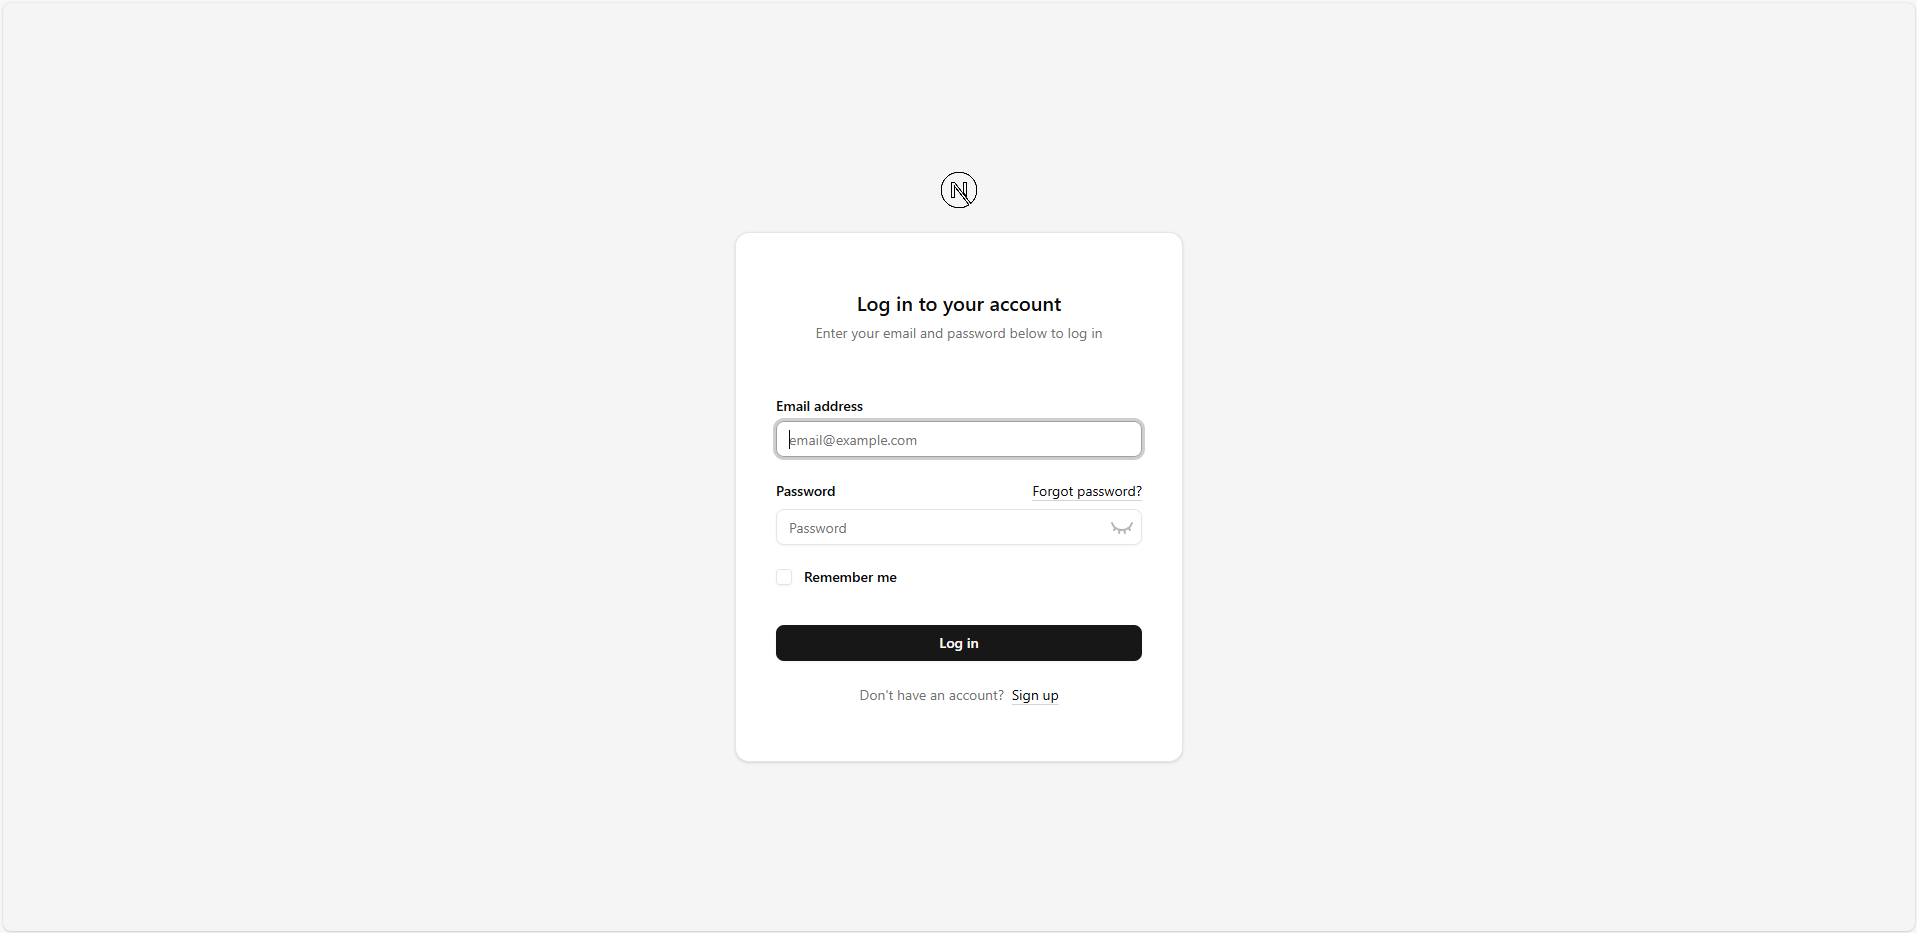
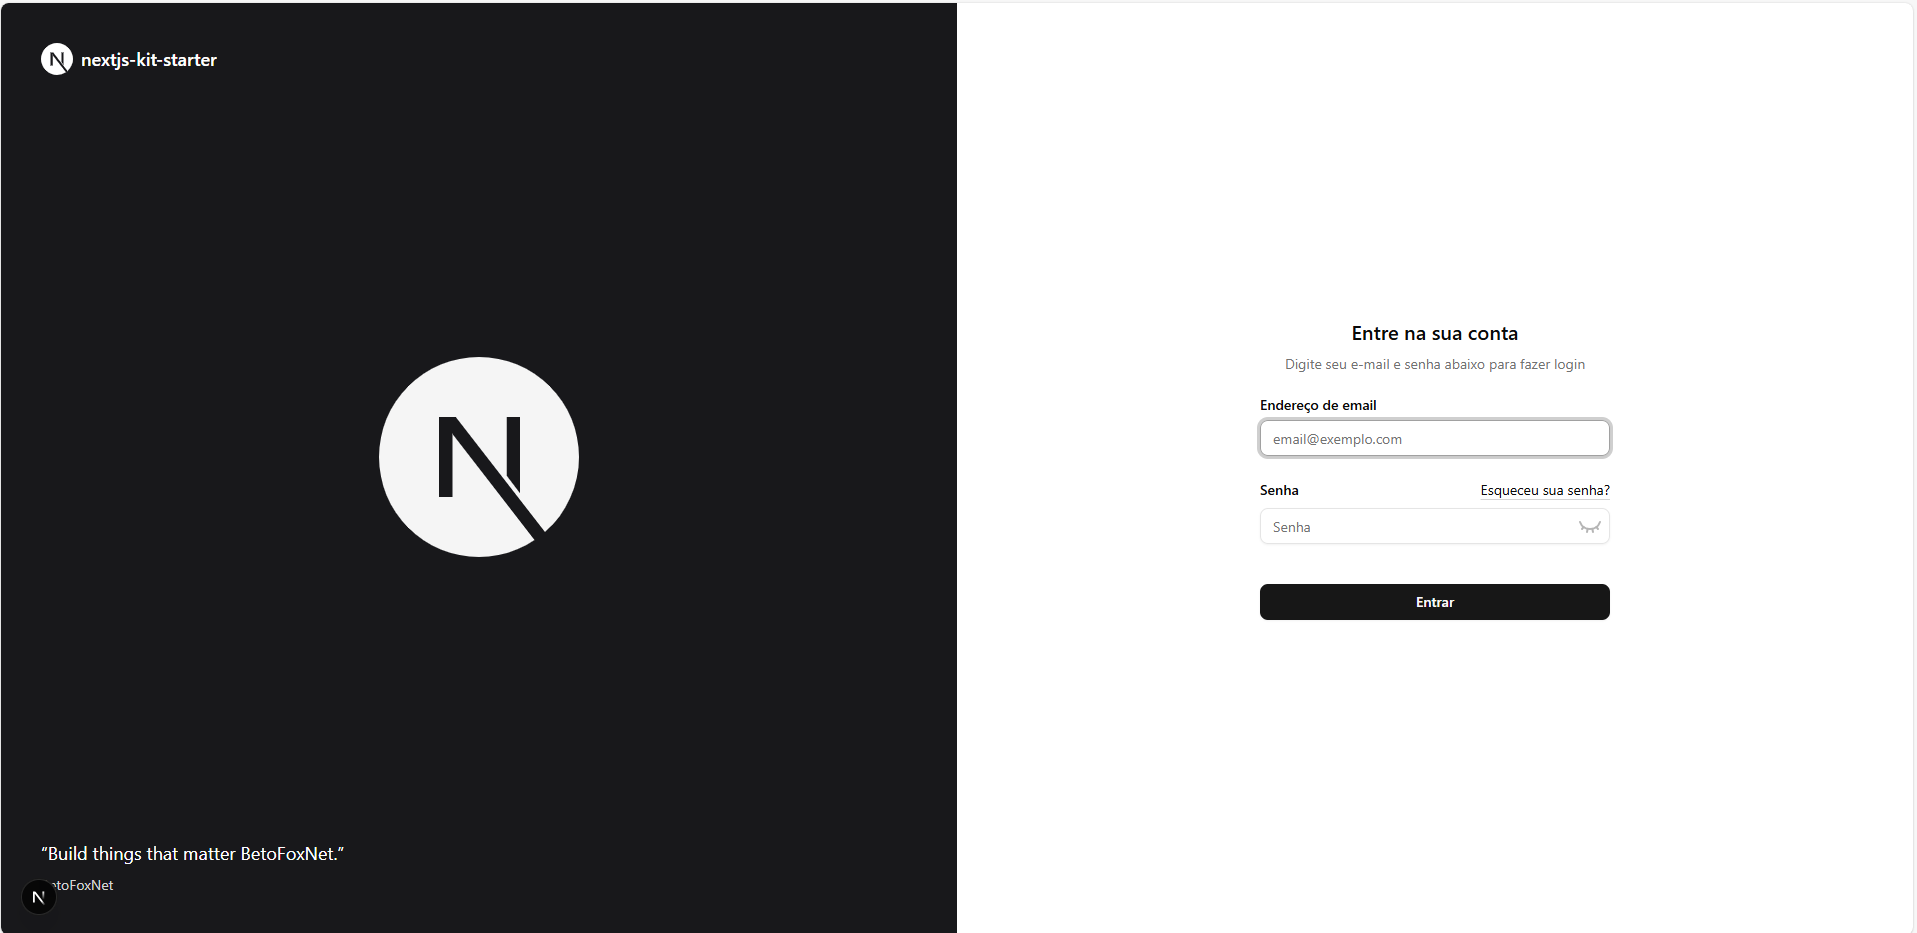
fix:ajust name project layout login and json

diff --git a/src/components/layouts/auth/auth-split-layout.tsx b/src/components/layouts/auth/auth-split-layout.tsx
@@ -3,7 +3,8 @@
 import appInfo from '@/lib/appInfo.json';
 import AppLogoIcon from '@/components/app-logo-icon';
 import Link from 'next/link';
-import { type PropsWithChildren } from 'react';
+import { useEffect, useRef, type PropsWithChildren } from 'react';
+import gsap from 'gsap';
 
 interface AuthLayoutProps {
     title?: string;
@@ -11,15 +12,34 @@ interface AuthLayoutProps {
 };
 
 export default function AuthSplitLayout({ children, title, description }: PropsWithChildren<AuthLayoutProps>) {
+    const logoRef = useRef<HTMLDivElement>(null);
     const { quote } = appInfo;
+    useEffect(() => {
+        if (!logoRef.current) return;
+        const tl = gsap.timeline();
+
+        tl.fromTo(
+            logoRef.current,
+            { x: -500, opacity: 0, scale: 0.8 },
+            { x: 0, opacity: 1, scale: 1, duration: 1, ease: 'power3.out' }
+        ).to(
+            logoRef.current,
+            { scale: 1.2, duration: 0.2, ease: 'power1.inOut', yoyo: true, repeat: 3 }
+        );
+    }, []);
     return (
         <div className="relative grid h-dvh flex-col items-center justify-center px-8 sm:px-0 lg:max-w-none lg:grid-cols-2 lg:px-0">
             <div className="bg-muted relative hidden h-full flex-col p-10 text-white lg:flex dark:border-r">
                 <div className="absolute inset-0 bg-zinc-900" />
                 <Link href="/" className="relative z-20 flex items-center text-lg font-medium">
-                    <AppLogoIcon className="mr-2 size-8 fill-current text-white" />
+                    <AppLogoIcon className="mr-2 size-8 fill-current" />
                     {appInfo.name}
                 </Link>
+                <div className="flex items-center justify-center h-full z-10">
+                    <div ref={logoRef} className="opacity-0">
+                        <AppLogoIcon className="size-50 fill-accent" />
+                    </div>
+                </div>
                 {quote && (
                     <div className="relative z-20 mt-auto">
                         <blockquote className="space-y-2">

diff --git a/src/components/layouts/auth/auth-card-layout.tsx b/src/components/layouts/auth/auth-card-layout.tsx
@@ -5,7 +5,13 @@ import { Card, CardContent, CardDescription, CardHeader, CardTitle } from '@/com
 import Link from 'next/link';
 import { type PropsWithChildren } from 'react';
 
-export default function AuthCardLayout({ children, title, description, }: PropsWithChildren<{ name?: string; title?: string; description?: string; }>) {
+interface AuthLayoutProps {
+    name?: string;
+    title?: string;
+    description?: string;
+};
+
+export default function AuthCardLayout({ children, title, description, }: PropsWithChildren<AuthLayoutProps>) {
     return (
         <div className="bg-muted flex min-h-svh flex-col items-center justify-center gap-6 p-6 md:p-10">
             <div className="flex w-full max-w-md flex-col gap-6">

diff --git a/src/components/layouts/auth-layout.tsx b/src/components/layouts/auth-layout.tsx
@@ -1,6 +1,6 @@
 'use client';
 
-import AuthLayoutTemplate from '@/components/layouts/auth/auth-simple-layout';
+import AuthLayoutTemplate from '@/components/layouts/auth/auth-split-layout';
 
 export default function AuthLayout({ children, title, description, ...props }: { children: React.ReactNode; title: string; description: string }) {
     return (
